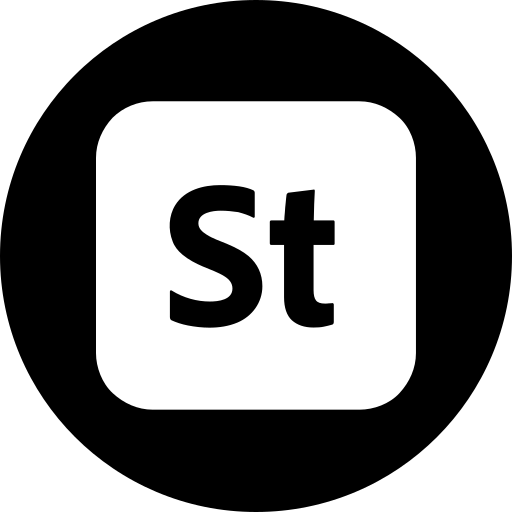
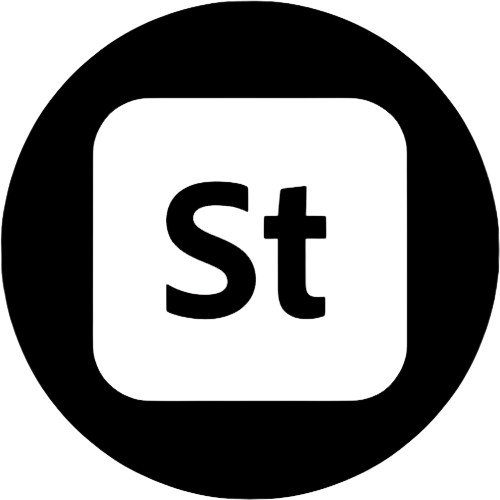
18-11-23

diff --git a/UC/uc.html b/UC/uc.html
@@ -11,7 +11,8 @@
 
 <body>
     <div id="titulo">
-        <h1>PUC</h1>
+            <h1>PUC</h1>
+            <h3>Proyectos y Tareas</h3>
     </div>
     
     <div class="contenedor">
@@ -23,25 +24,26 @@
 
     <div class="contenedor">
         <div class="facultades" style="text-align: center;">
-            <h2>Visualizacion de Información</h2>
-            <a href="InfoVis/T1/" >Tarea 1</a><br>
-            <a href="InfoVis/T2/" >Tarea 2</a><br>
-            <a href="InfoVis/T3/" >Tarea 3</a><br>
-            <a href="InfoVis/Proyecto/" >Proyecto</a>
-        </div>
-    </div>
-
-    <div class="contenedor">
-        <div class="facultades" style="text-align: center;">
             <h2>Introducción a Ciencia de Datos</h2>
             <a href="IntroCDD/" >Proyecto</a>
         </div>
     </div>
 
+    <div class="contenedor">
+        <div class="facultades" style="text-align: center;">
+            <h2>Visualizacion de Información</h2>
+            <a href="InfoVis/Proyecto/" >Proyecto</a><br>
+            <a href="InfoVis/T1/" >Tarea 1</a><br>
+            <a href="InfoVis/T2/" >Tarea 2</a><br>
+            <a href="InfoVis/T3/" >Tarea 3</a>
+        </div>
+    </div>
+
+
     <footer style="text-align: center;">
         <br/>
         <br/>
-        <p>© Tomás Romero Aránguiz | 2023</p>
+        <a href="../index.html">© Tomás Romero Aránguiz | 2023</a>
     </footer>
 
 </body>

diff --git a/style.css b/style.css
@@ -1,10 +1,10 @@
-/*Paleta de colores: https://coolors.co/palette/335c67-fff3b0-e09f3e-9e2a2b-540b0e*/
+/*Paleta de colores: https://coolors.co/b8a7a3-d2cbc6-197bbd-125e8a-11272d*/
 
 * {
-  background-color: #335c67;
+  background-color: #D2CBC6;
   text-align: center;
   font-family: Jost;
-  color: #fff3b0;
+  color: #125e8a;
 }
 
 a:link {
@@ -13,9 +13,9 @@ a:link {
 }
 
 .titulo {
-  background-color: #e09f3e;
+  /*background-color: #125e8a;*/
   text-align: center;
-  color: #fff3b0;
+  color: #197bbd;
   padding: 5px;
   padding-top: 0px;
   padding-bottom: 0px;

diff --git a/UC/OPR/index.html b/UC/OPR/index.html
@@ -13,7 +13,7 @@
     <body>
         <div id="titulo">
             <h1>PUC</h1>
-            <h2>Optativos de Profundización LICD</h2>
+            <h3>Optativos de Profundización LICD</h3>
         </div>
         
         <script>
@@ -23,7 +23,7 @@
         <footer>
             <br/>
             <br/>
-            <p>© Tomás Romero Aránguiz | 2023</p>
+            <a href="../../index.html">© Tomás Romero Aránguiz | 2023</a>
         </footer>
 
     </body>

diff --git a/UC/OPR/consulta_cursos.js b/UC/OPR/consulta_cursos.js
@@ -55,7 +55,7 @@ function redirigir(sigla) {
 function generarEnlace() {
     for (facultad of Object.keys(facultades)) {
         document.write('<div class="contenedor">');
-        document.write('<div class="facultades">');
+        document.write('<div class="facultades" style="padding-left:40px; padding-right:10px">');
         
         document.write('<h2>' + facultad + '</h2>');
         siglas = Object.keys(facultades[facultad]);

diff --git a/index.html b/index.html
@@ -33,13 +33,13 @@
 
       <div>
         <p>ST</p>
-        <a href="ST/index.html" target="blank_">
+        <a href="ST/index.html">
         <img
-          src="imagenes/st.svg"
+          src="imagenes/st.png"
           width="50px"
-          height="65px"
           alt="Servicio Tecnico"
           title="Servicio Tecnico"
+          style="margin-top: 10px;margin-bottom: 10px;"
         />
         </a>
       </div>

diff --git a/ST/index.html b/ST/index.html
@@ -51,7 +51,7 @@
         <br/>
 
         <footer>
-            <p>© Tomás Romero Aránguiz | 2023</p>
+            <p><a href="../index.html" style="color: #9c978d" onmouseover="this.style.color='#EB5E28'">© Tomás Romero Aránguiz</a> | 2023</p>
             <a href="https://api.whatsapp.com/send/?phone=972840635" target="_blank">WhatsApp</a>
         </footer>
     </body>

diff --git a/UC/InfoVis/Proyecto/index.html b/UC/InfoVis/Proyecto/index.html
@@ -95,7 +95,7 @@
             <footer>
                 <br/>
                 <br/>
-                <p>© Tomás Romero Aránguiz | Victor Bórquez</p>
+                <p><a href="../../../index.html">© Tomás Romero Aránguiz</a> | Victor Bórquez</p>
                 <p>2023</p>
             </footer>
         </div>

diff --git a/UC/OPR/style.css b/UC/OPR/style.css
@@ -34,8 +34,11 @@ a:hover {
 }
 
 .facultades {
+  background-color: rgba(0, 0, 0, 0.15);
   justify-content: flex-start;
   /* text-align: center */
-  padding: 20px;
+  margin-bottom: 20px;
+  border-radius: 7px;
+  padding-bottom: 25px;
   width: 550px;
 }

diff --git a/UC/InfoVis/Proyecto/style.css b/UC/InfoVis/Proyecto/style.css
@@ -76,3 +76,11 @@ button{
 #circle2{
     cursor: pointer;
 }
+
+a{
+    color:white;
+    text-decoration: none;
+}
+a:hover{
+    color: #641b9f;
+}

diff --git a/imagenes/change_color.py b/imagenes/change_color.py
@@ -1,0 +1,34 @@
+from PIL import Image
+import os
+
+def new_path(path, color, carpeta=False):
+    path = path.split("/")
+    if not carpeta:
+        path.insert(-1, color)
+    else: 
+        path[-1] = color
+    return ("/").join(path)
+
+def cambiar_color(path, color): 
+    imagen = Image.open(path)
+    datos_pixeles = imagen.getdata()
+    print(datos_pixeles)
+    nuevos_pixeles = [hex_to_rgba(color) if pixel != 0 else 0 for pixel in datos_pixeles]
+    nueva_imagen = Image.new("RGBA", imagen.size)
+    nueva_imagen.putdata(nuevos_pixeles)
+    os.makedirs(new_path(path, color, carpeta=True), exist_ok=True)
+    nueva_imagen.save(new_path(path, color))
+
+def hex_to_rgba(hex_color):
+    # Convierte el valor hexadecimal a RGBA
+    rgba = tuple(int(hex_color[i:i+2], 16) for i in (0, 2, 4))
+    return rgba
+
+if __name__ == "__main__":
+    for imagen in os.listdir("imagenes"):
+        tipo = imagen.split(".")[-1]
+        if  tipo == "png":
+            imagen = "imagenes/" + imagen
+            color = "#125E8A"
+            color = color.lstrip('#')
+            cambiar_color(imagen, color)
